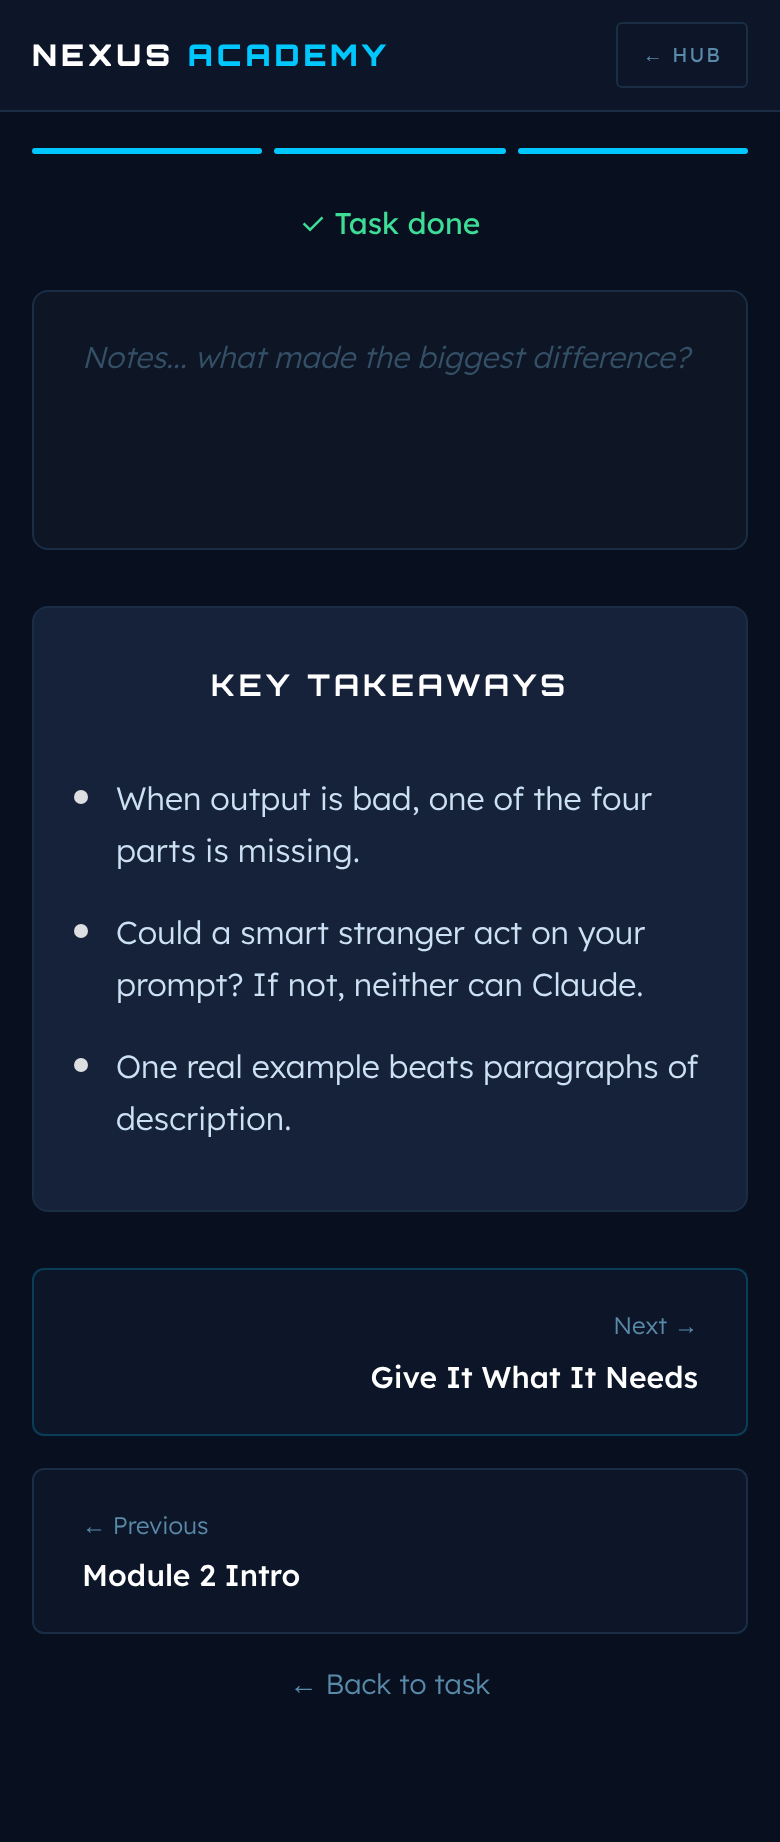
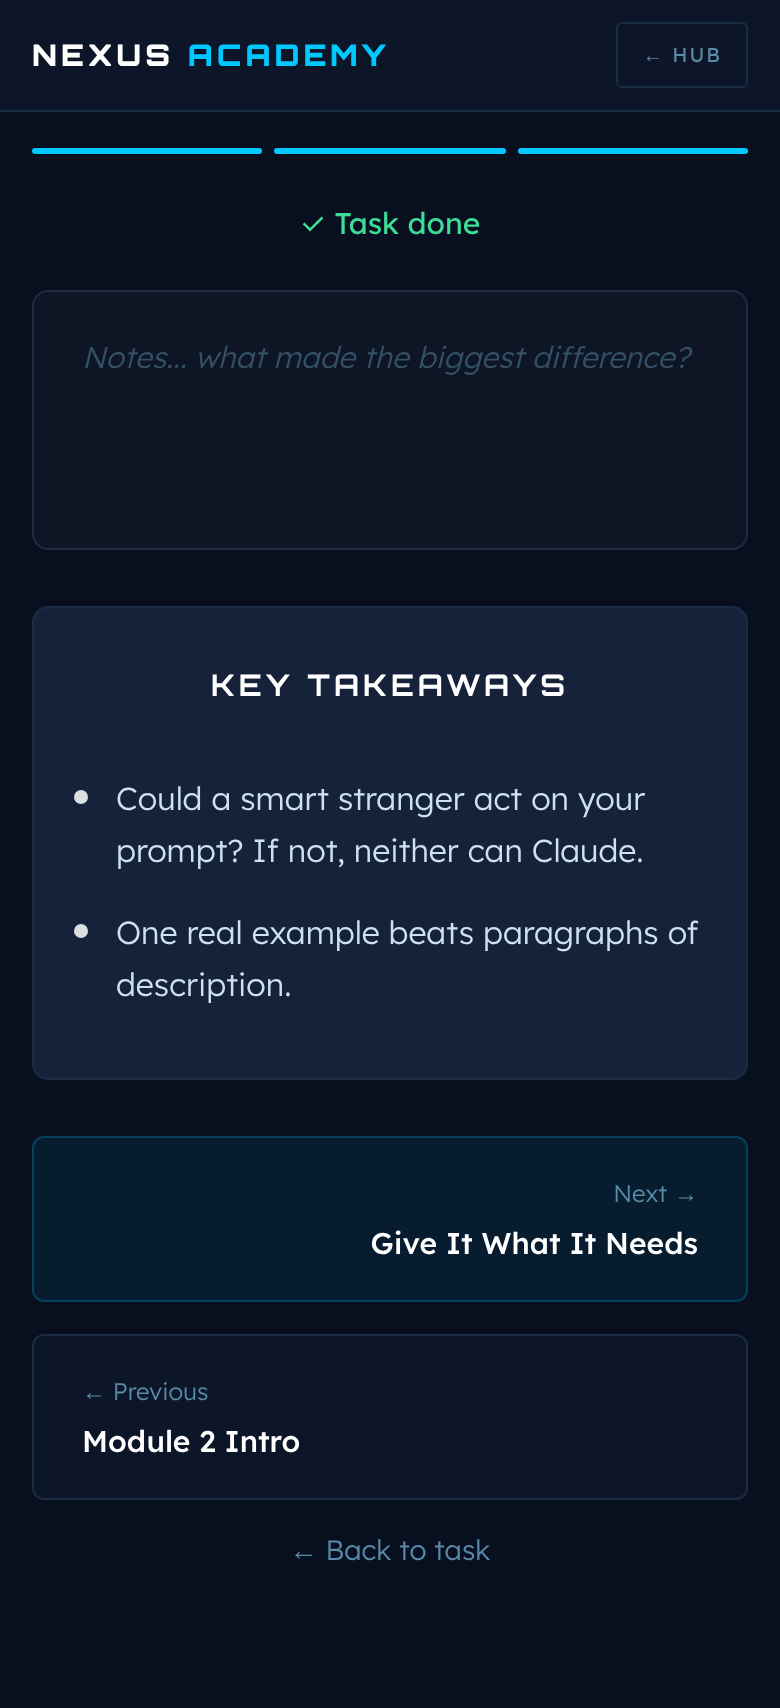
Humanizer passes on lesson proposal copy
Claude-Session: https://claude.ai/code/session_01Qx6cTKJbmfMKNXGqxSEPDq

diff --git a/docs/proposals/lesson-design/option-c.html b/docs/proposals/lesson-design/option-c.html
@@ -104,7 +104,7 @@ textarea.notes-field:focus{border-color:rgba(0,200,255,0.2)}
       <h1>Anatomy of a Good Prompt</h1>
       <div class="copy">
         <p>A prompt is a brief. Most people write it like a text to a friend, then wonder why the answer is generic.</p>
-        <p>A good prompt has four parts: the <strong>goal</strong>, the <strong>context</strong> Claude can't know, the <strong>format</strong> you want, and an <strong>example</strong> of good.</p>
+        <p>A good prompt has four parts: the goal, the context Claude can't know, the format you want, and an example of what good looks like.</p>
       </div>
     </div>
     <!-- a lesson with a video adds the timestamp bar + video here -->
@@ -116,7 +116,7 @@ textarea.notes-field:focus{border-color:rgba(0,200,255,0.2)}
     <div class="box task section">
       <div class="box-title">Your Task</div>
       <ol class="steps">
-        <li><div>Open a new chat and paste this:
+        <li><div>Open a new chat in Claude and paste this:
           <div class="prompt"><span>Write an email to my client about the delay.</span></div></div></li>
         <li><div>Open another new chat. Ask for the same email, this time with a goal, context, format and example.</div></li>
         <li><div>Read both answers. Which one could you actually send?</div></li>
@@ -134,7 +134,6 @@ textarea.notes-field:focus{border-color:rgba(0,200,255,0.2)}
     </div>
     <div class="box section">
       <div class="box-title">Key Takeaways</div>
-      <div class="takeaway">When output is bad, one of the four parts is missing.</div>
       <div class="takeaway">Could a smart stranger act on your prompt? If not, neither can Claude.</div>
       <div class="takeaway">One real example beats paragraphs of description.</div>
     </div>

diff --git a/docs/proposals/lesson-design/README.md b/docs/proposals/lesson-design/README.md
@@ -1,11 +1,9 @@
 # Lesson page: three screens
 
-Lesson 2.1 rebuilt as **Learn → Do → Done**, one screen at a time, using only the parts of the nexus-open lesson page:
+Lesson 2.1 as three screens, one at a time, built from the parts of the nexus-open lesson page.
 
-- **Learn:** title box with two short paragraphs. Lessons with a video add the timestamp bar and video here.
-- **Do:** one task box, three steps, copyable prompt, "Mark task done".
-- **Done:** notes, Key Takeaways, Previous / Next cards.
+The first screen is the title and two short paragraphs. A lesson with a video adds the timestamp bar and the video here. The second screen is the task: three steps, a copy button for the prompt, and "Mark task done". The third has notes, Key Takeaways and the Previous/Next cards.
 
-Same fonts as nexus-open: Orbitron only for titles, Lexend for everything else. No small labels, grids or mono captions. A thin three-part line under the nav shows where you are.
+Fonts match nexus-open. Orbitron is for titles only and everything else is Lexend. A thin line under the nav shows which screen you're on.
 
 Screenshots: `option-c-{desktop,phone}-{1-learn,2-do,3-done}.png`.
